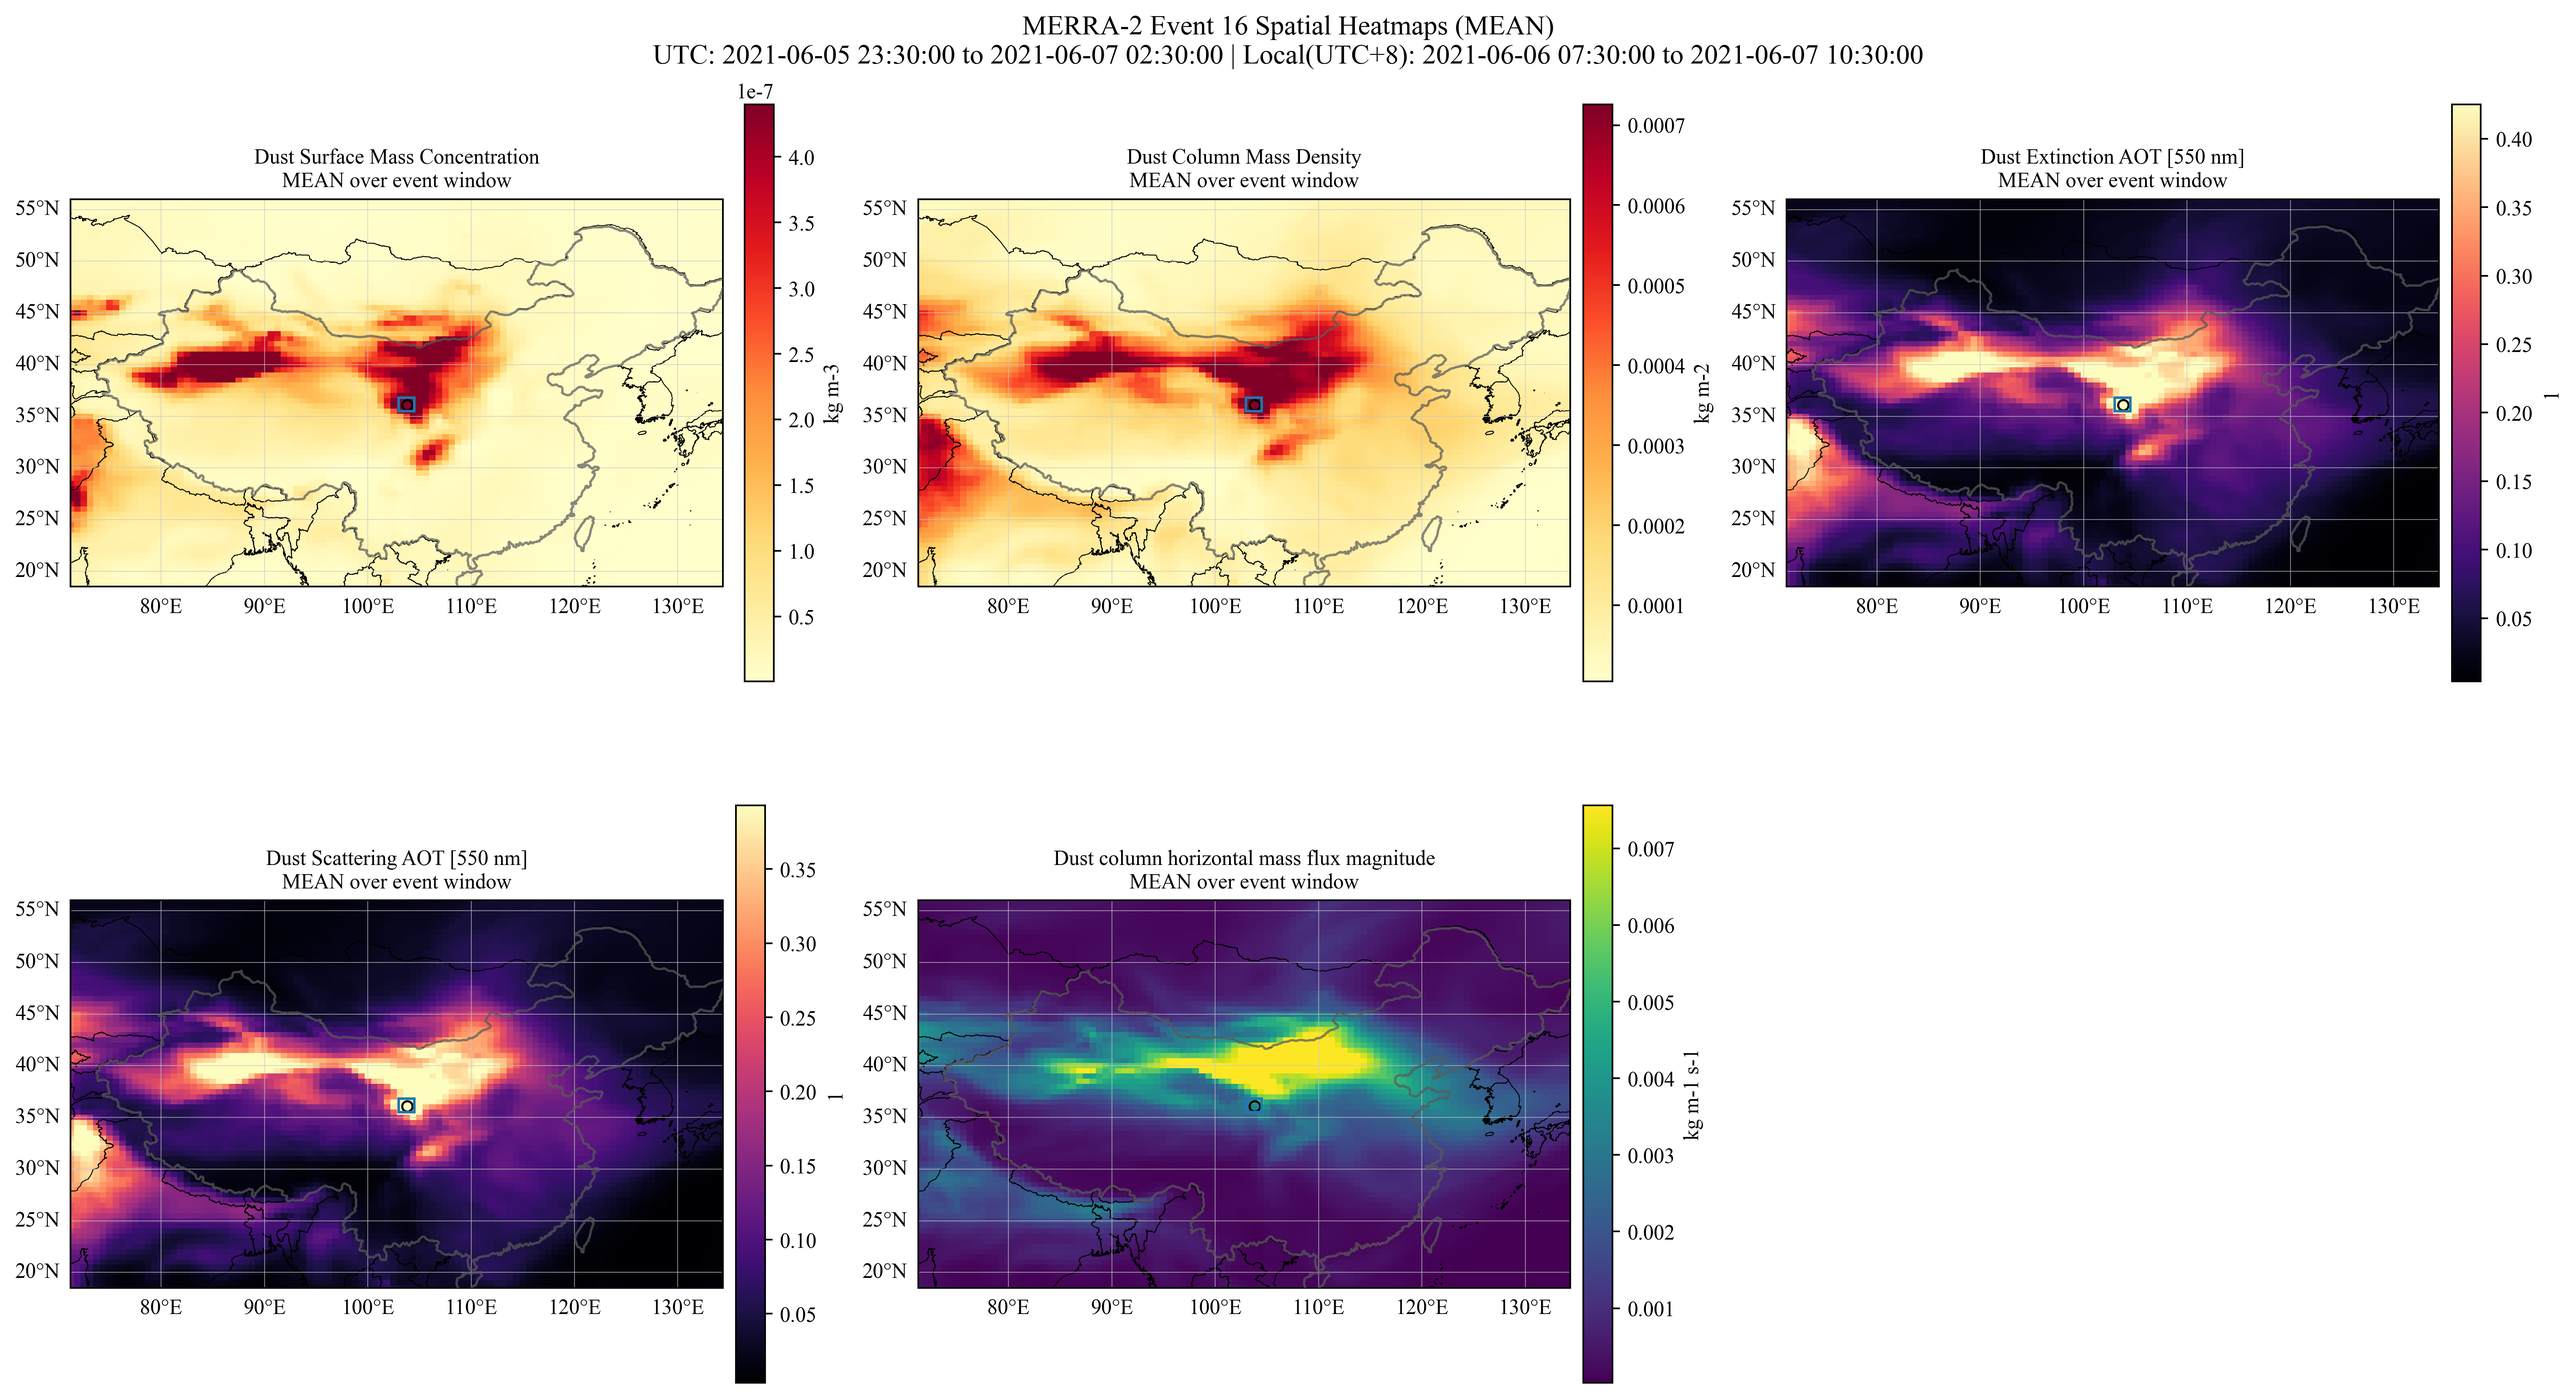
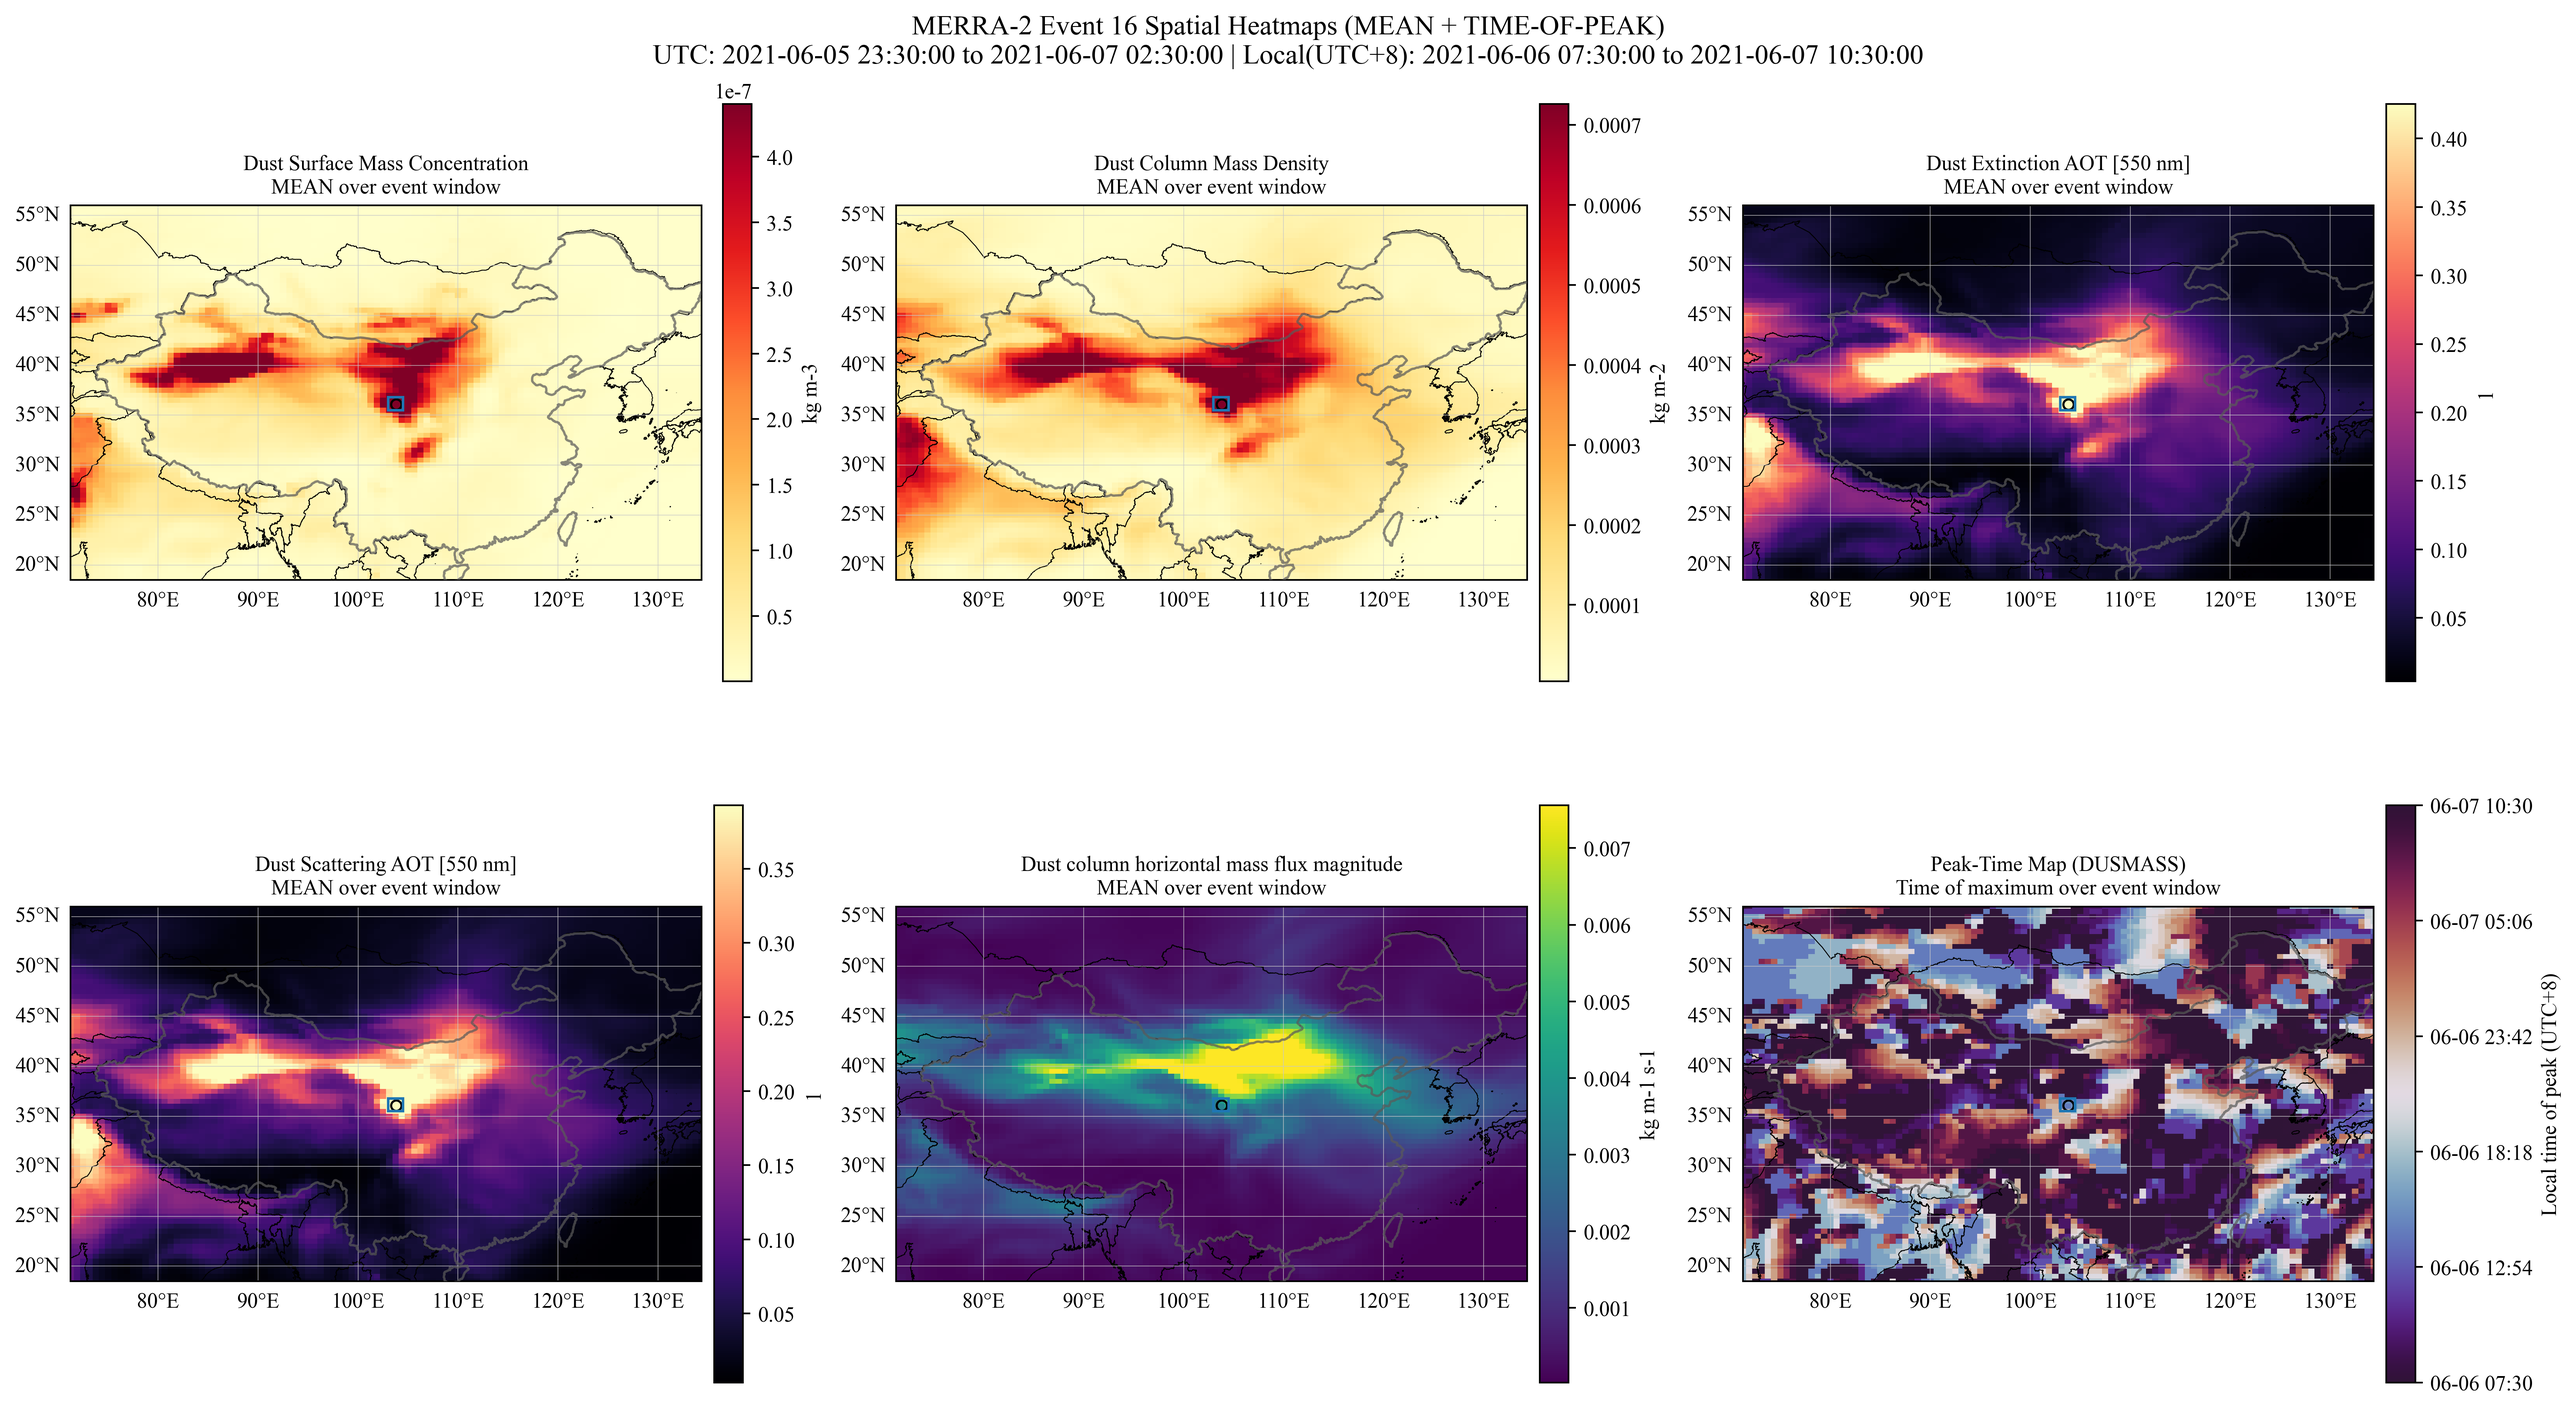
add merra-2 in readme & time integral

diff --git a/data_prep/merra-2/plot_event16_spatial_heatmaps.py b/data_prep/merra-2/plot_event16_spatial_heatmaps.py
@@ -30,6 +30,7 @@ OUT_DIR = Path(__file__).resolve().parent / "out_dust_events" / "event16_spatial
 
 PLOT_VARS = ["DUSMASS", "DUCMASS", "DUEXTTAU", "DUSCATAU", "DUFLUX_MAG"]
 BASE_VARS_REQUIRED = ["DUSMASS", "DUCMASS", "DUEXTTAU", "DUSCATAU", "DUFLUXU", "DUFLUXV"]
+PEAK_TIME_VAR = "DUSMASS"
 
 LANZHOU_LON = 103.8343
 LANZHOU_LAT = 36.0611
@@ -163,6 +164,45 @@ def _var_meta(ds: xr.Dataset, var: str) -> tuple[str, str, str]:
     return long_name, unit, cmap
 
 
+def _overlay_lanzhou(ax):
+    if SHOW_LANZHOU_MARKER:
+        ax.scatter(
+            [LANZHOU_LON],
+            [LANZHOU_LAT],
+            transform=ccrs.PlateCarree(),
+            s=24,
+            marker="o",
+            facecolor="none",
+            edgecolor="black",
+            linewidth=1.0,
+            zorder=6,
+        )
+    if SHOW_LANZHOU_BOX:
+        w, s, e, n = LANZHOU_BOX
+        rect = mpatches.Rectangle(
+            (w, s),
+            e - w,
+            n - s,
+            linewidth=1.2,
+            edgecolor="#1f77b4",
+            facecolor="none",
+            linestyle="-",
+            transform=ccrs.PlateCarree(),
+            zorder=6,
+        )
+        ax.add_patch(rect)
+
+
+def _peak_time_hours(ds_evt: xr.Dataset, var: str) -> xr.DataArray:
+    peak_idx = ds_evt[var].argmax(dim="time", skipna=True)
+    peak_t = ds_evt["time"].isel(time=peak_idx)
+    valid = ds_evt[var].count(dim="time") > 0
+    start_t = ds_evt["time"].min()
+    peak_hours = ((peak_t - start_t) / np.timedelta64(1, "h")).where(valid)
+    peak_hours.attrs["units"] = "hour since event start (UTC)"
+    return peak_hours
+
+
 def _plot_metric_panels(
     ds_evt: xr.Dataset,
     plot_vars: list[str],
@@ -179,7 +219,8 @@ def _plot_metric_panels(
     if not valid_vars:
         raise RuntimeError("No plotting variables available in event dataset.")
 
-    n = len(valid_vars)
+    add_peak_panel = metric == "mean" and PEAK_TIME_VAR in valid_vars
+    n = len(valid_vars) + (1 if add_peak_panel else 0)
     ncols = 3
     nrows = int(math.ceil(n / ncols))
     fig, axes = plt.subplots(
@@ -225,47 +266,63 @@ def _plot_metric_panels(
             zorder=1,
         )
 
-        if SHOW_LANZHOU_MARKER:
-            ax.scatter(
-                [LANZHOU_LON],
-                [LANZHOU_LAT],
-                transform=ccrs.PlateCarree(),
-                s=24,
-                marker="o",
-                facecolor="none",
-                edgecolor="black",
-                linewidth=1.0,
-                zorder=6,
-            )
-        if SHOW_LANZHOU_BOX:
-            w, s, e, n = LANZHOU_BOX
-            rect = mpatches.Rectangle(
-                (w, s),
-                e - w,
-                n - s,
-                linewidth=1.2,
-                edgecolor="#1f77b4",
-                facecolor="none",
-                linestyle="-",
-                transform=ccrs.PlateCarree(),
-                zorder=6,
-            )
-            ax.add_patch(rect)
+        _overlay_lanzhou(ax)
 
         cbar = fig.colorbar(mesh, ax=ax, shrink=0.84, pad=0.02)
         cbar.set_label(unit if unit else var)
         ax.set_title(f"{long_name}\n{metric.upper()} over event window", fontsize=10)
 
-    for j in range(len(valid_vars), len(axes)):
+    if add_peak_panel:
+        ax = axes[len(valid_vars)]
+        draw_world_adm0_china_highlight_canvas(
+            ax=ax,
+            extent=extent,
+            draw_grid=True,
+            show_country_labels=False,
+            processing_extent=extent,
+            neighbor_linewidth=0.36,
+            china_linewidth=1.1,
+            china_edgecolor="#5a5a5a",
+            china_alpha=0.72,
+            omit_shared_with_china=True,
+        )
+
+        peak_hours = _peak_time_hours(ds_evt, PEAK_TIME_VAR)
+        vals = peak_hours.values
+        max_hours = float(((ds_evt["time"].max() - ds_evt["time"].min()) / np.timedelta64(1, "h")).item())
+        if not np.isfinite(max_hours) or max_hours <= 0:
+            max_hours = 1.0
+        norm = mcolors.Normalize(vmin=0.0, vmax=max_hours)
+        mesh = ax.pcolormesh(
+            ds_evt["lon"].values,
+            ds_evt["lat"].values,
+            vals,
+            transform=ccrs.PlateCarree(),
+            cmap="twilight_shifted",
+            shading="auto",
+            norm=norm,
+            zorder=1,
+        )
+        _overlay_lanzhou(ax)
+        cbar = fig.colorbar(mesh, ax=ax, shrink=0.84, pad=0.02)
+        start_local = start_utc + pd.Timedelta(hours=LOCAL_TZ_OFFSET_HOURS)
+        ticks = np.linspace(0.0, max_hours, 6)
+        cbar.set_ticks(ticks)
+        cbar.set_ticklabels([(start_local + pd.Timedelta(hours=float(t))).strftime("%m-%d %H:%M") for t in ticks])
+        cbar.set_label("Local time of peak (UTC+8)")
+        ax.set_title(f"Peak-Time Map ({PEAK_TIME_VAR})\nTime of maximum over event window", fontsize=10)
+
+    used_panels = len(valid_vars) + (1 if add_peak_panel else 0)
+    for j in range(used_panels, len(axes)):
         axes[j].set_visible(False)
 
     start_local = start_utc + pd.Timedelta(hours=LOCAL_TZ_OFFSET_HOURS)
     end_local = end_utc + pd.Timedelta(hours=LOCAL_TZ_OFFSET_HOURS)
+    figure_title = f"MERRA-2 Event {event_id} Spatial Heatmaps ({metric.upper()})"
+    if add_peak_panel:
+        figure_title = f"MERRA-2 Event {event_id} Spatial Heatmaps (MEAN + TIME-OF-PEAK)"
     fig.suptitle(
-        (
-            f"MERRA-2 Event {event_id} Spatial Heatmaps ({metric.upper()})\n"
-            f"UTC: {start_utc} to {end_utc} | Local(UTC+8): {start_local} to {end_local}"
-        ),
+        f"{figure_title}\nUTC: {start_utc} to {end_utc} | Local(UTC+8): {start_local} to {end_local}",
         fontsize=13,
         y=1.02,
     )

diff --git a/README.md b/README.md
@@ -81,26 +81,21 @@ Event window used for this example:
 - Local (UTC+8): `2021-06-06 07:30:00` to `2021-06-07 10:30:00`
 
 Generated from:
-- `data_prep/merra-2/plot_event16_spatial_heatmaps.py`
+- `data_prep/merra-2/plot_event16_mean_integral_2x3.py`
 
 Outputs:
-- Mean-field heatmaps: `data_prep/merra-2/out_dust_events/event16_spatial_maps/event16_spatial_mean_heatmaps.png`
-- Max-field heatmaps: `data_prep/merra-2/out_dust_events/event16_spatial_maps/event16_spatial_max_heatmaps.png`
+- 2x3 mean+integral heatmaps: `data_prep/merra-2/out_dust_events/event16_spatial_maps/event16_spatial_mean_integral_2x3.png`
 
-How `mean` and `max` are computed:
+How `mean` and `time-integrated` are computed:
 - Statistics are computed per grid cell over the event time window (not spatially averaged over the map).
 - `mean` heatmap at `(lat, lon)`: time-average during the event, i.e. `mean_t V(t, lat, lon)`.
-- `max` heatmap at `(lat, lon)`: time-maximum during the event, i.e. `max_t V(t, lat, lon)`.
-- Interpretation: `mean` reflects sustained event intensity; `max` reflects peak intensity.
-- Variables shown: `DUSMASS`, `DUCMASS`, `DUEXTTAU`, `DUSCATAU`, and `DUFLUX_MAG` where `DUFLUX_MAG = sqrt(DUFLUXU^2 + DUFLUXV^2)`.
+- `time-integrated` heatmap at `(lat, lon)`: event-window accumulation, i.e. `sum_t V(t, lat, lon) * dt` (with `dt` inferred from time-step spacing).
+- Interpretation: `mean` reflects sustained intensity level; `time-integrated` reflects cumulative exposure burden.
+- Variables shown in this 2x3 figure: `DUSMASS`, `DUCMASS`, `DUEXTTAU`.
 
-**Event 16 spatial mean heatmaps**
+**Event 16 spatial mean + time-integrated heatmaps (2x3)**
 
-![Event 16 spatial mean heatmaps](data_prep/merra-2/out_dust_events/event16_spatial_maps/event16_spatial_mean_heatmaps.png)
-
-**Event 16 spatial max heatmaps**
-
-![Event 16 spatial max heatmaps](data_prep/merra-2/out_dust_events/event16_spatial_maps/event16_spatial_max_heatmaps.png)
+![Event 16 spatial mean + time-integrated heatmaps](data_prep/merra-2/out_dust_events/event16_spatial_maps/event16_spatial_mean_integral_2x3.png)
 
 ---
 
